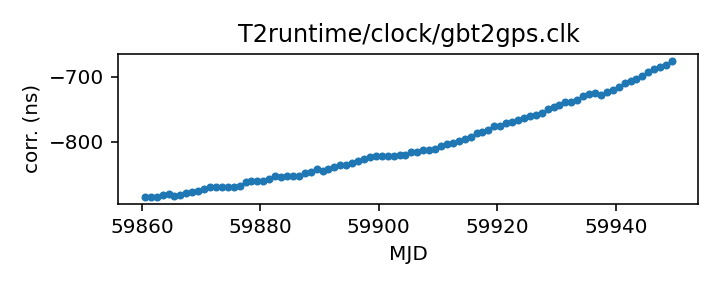
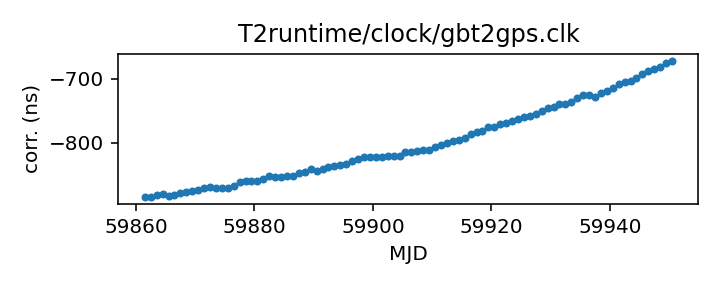
Routine gh-pages update from Github action Sat Jan  7 20:27:29 UTC 2023

diff --git a/status.md b/status.md
@@ -13,17 +13,17 @@ name of each clock file links to a page with more details.
 
 | Name | File | Corrections start | Corrections end | Last check date | Last check result 
 |:--- |:--- | --- | --- | --- |:--- 
-| [GPS to UTC](T2runtime/clock/gps2utc.clk.html) | `T2runtime/clock/gps2utc.clk` | 1993-01-01 MJD 48988.0 | 2022-11-26 MJD 59909.0 | 2023-01-06 | Unchanged 
-| [GPS to UTC (Combined Clock)](T2runtime/clock/gps2utc_cc.clk.html) | `T2runtime/clock/gps2utc_cc.clk` | 1993-01-01 MJD 48988.0 | 2022-11-26 MJD 59909.0 | 2023-01-06 | Unchanged 
-| [GPS to UTC (Corrected)](T2runtime/clock/gps2utc_c0p.clk.html) | `T2runtime/clock/gps2utc_c0p.clk` | 2010-12-29 MJD 55559.0 | 2022-11-26 MJD 59909.0 | 2023-01-06 | Unchanged 
-| [GBT](tempo/clock/time_gbt.dat.html) | `tempo/clock/time_gbt.dat` | 2000-12-31 MJD 51909.5 | 2023-01-05 MJD 59949.5 | 2023-01-06 | Updated 
-| [GBT (TEMPO2 converted from TEMPO)](T2runtime/clock/gbt2gps.clk.html) | `T2runtime/clock/gbt2gps.clk` | 2000-12-31 MJD 51909.5 | 2023-01-05 MJD 59949.5 | 2023-01-06 | Updated 
+| [GPS to UTC](T2runtime/clock/gps2utc.clk.html) | `T2runtime/clock/gps2utc.clk` | 1993-01-01 MJD 48988.0 | 2022-11-26 MJD 59909.0 | 2023-01-07 | Unchanged 
+| [GPS to UTC (Combined Clock)](T2runtime/clock/gps2utc_cc.clk.html) | `T2runtime/clock/gps2utc_cc.clk` | 1993-01-01 MJD 48988.0 | 2022-11-26 MJD 59909.0 | 2023-01-07 | Unchanged 
+| [GPS to UTC (Corrected)](T2runtime/clock/gps2utc_c0p.clk.html) | `T2runtime/clock/gps2utc_c0p.clk` | 2010-12-29 MJD 55559.0 | 2022-11-26 MJD 59909.0 | 2023-01-07 | Unchanged 
+| [GBT](tempo/clock/time_gbt.dat.html) | `tempo/clock/time_gbt.dat` | 2000-12-31 MJD 51909.5 | 2023-01-06 MJD 59950.5 | 2023-01-07 | Updated 
+| [GBT (TEMPO2 converted from TEMPO)](T2runtime/clock/gbt2gps.clk.html) | `T2runtime/clock/gbt2gps.clk` | 2000-12-31 MJD 51909.5 | 2023-01-06 MJD 59950.5 | 2023-01-07 | Updated 
 | [Jodrell Bank](T2runtime/clock/jb2gps.clk.html) | `T2runtime/clock/jb2gps.clk` | 2006-10-13 MJD 54021.4 | 2021-11-03 MJD 59521.0 | 2023-01-04 | Unchanged 
 | [Jodrell Bank Roach](T2runtime/clock/jbroach2jb.clk.html) | `T2runtime/clock/jbroach2jb.clk` | 2006-10-13 MJD 54021.4 | 2018-03-20 MJD 58197.6 | 2023-01-04 | Unchanged 
 | [Jodrell Bank DFB](T2runtime/clock/jbdfb2jb.clk.html) | `T2runtime/clock/jbdfb2jb.clk` | 2006-10-13 MJD 54021.4 | 2017-05-11 MJD 57884.0 | 2023-01-04 | Unchanged 
 | [Meerkat (observatory)](T2runtime/clock/mk2utc_observatory.clk.html) | `T2runtime/clock/mk2utc_observatory.clk` | 2019-01-01 MJD 58484.0 | 2022-12-09 MJD 59923.0 | 2023-01-02 | Unchanged 
-| [Leap seconds](tempo/clock/leap.sec.html) | `tempo/clock/leap.sec` | 1972-07-01 MJD 41499.0 | 2017-01-01 MJD 57754.0 | 2023-01-06 | Unchanged 
-| [UT1 table](tempo/clock/ut1.dat.html) | `tempo/clock/ut1.dat` | 1973-01-02 MJD 41684.0 | 2024-01-13 MJD 60322.0 | 2023-01-06 | Unchanged 
+| [Leap seconds](tempo/clock/leap.sec.html) | `tempo/clock/leap.sec` | 1972-07-01 MJD 41499.0 | 2017-01-01 MJD 57754.0 | 2023-01-07 | Unchanged 
+| [UT1 table](tempo/clock/ut1.dat.html) | `tempo/clock/ut1.dat` | 1973-01-02 MJD 41684.0 | 2024-01-13 MJD 60322.0 | 2023-01-07 | Unchanged 
 
 
 

diff --git a/T2runtime/clock/gbt2gps.clk.md b/T2runtime/clock/gbt2gps.clk.md
@@ -23,14 +23,13 @@ If questions arise about the conversion, contact Anne Archibald
 | Format | tempo2 |
 | Bogus last correction | False |
 | Clock file start | 2000-12-31 MJD 51909.5 |
-| Clock file end | 2023-01-05 MJD 59949.5 |
+| Clock file end | 2023-01-06 MJD 59950.5 |
 | Update interval (days) | 1 |
-| Last update attempt | 2023-01-06 |
+| Last update attempt | 2023-01-07 |
 | Last update result | Updated |
 
 Log entries from the last few update attempts:
 ```
-2022-12-28 20:27:37.336 - Updated
 2022-12-29 20:27:57.091 - Updated
 2022-12-30 20:27:23.116 - Updated
 2022-12-31 20:26:38.920 - Updated
@@ -40,12 +39,13 @@ Log entries from the last few update attempts:
 2023-01-04 20:29:16.060 - Updated
 2023-01-05 20:30:04.348 - Updated
 2023-01-06 20:28:37.177 - Updated
+2023-01-07 20:27:06.058 - Updated
 ```
 [Full log](https://raw.githubusercontent.com/ipta/pulsar-clock-corrections/main/log/T2runtime/clock/gbt2gps.clk.log)
 
 Leading comments from clock file:
 
-    # This file was automatically converted from tempo/clock/time_gbt.dat on 2023-01-06 20:28:37.110
+    # This file was automatically converted from tempo/clock/time_gbt.dat on 2023-01-07 20:27:05.992
 
 
 

diff --git a/tempo/clock/time_gbt.dat.md b/tempo/clock/time_gbt.dat.md
@@ -18,14 +18,13 @@ If questions arise, contact Ryan S. Lynch <rlynch@nrao.edu>.
 | Format | tempo |
 | Bogus last correction | False |
 | Clock file start | 2000-12-31 MJD 51909.5 |
-| Clock file end | 2023-01-05 MJD 59949.5 |
+| Clock file end | 2023-01-06 MJD 59950.5 |
 | Update interval (days) | 1 |
-| Last update attempt | 2023-01-06 |
+| Last update attempt | 2023-01-07 |
 | Last update result | Updated |
 
 Log entries from the last few update attempts:
 ```
-2022-12-28 20:27:37.235 - Updated
 2022-12-29 20:27:57.021 - Updated
 2022-12-30 20:27:23.034 - Updated
 2022-12-31 20:26:38.850 - Updated
@@ -35,6 +34,7 @@ Log entries from the last few update attempts:
 2023-01-04 20:29:15.991 - Updated
 2023-01-05 20:30:04.251 - Updated
 2023-01-06 20:28:37.108 - Updated
+2023-01-07 20:27:05.990 - Updated
 ```
 [Full log](https://raw.githubusercontent.com/ipta/pulsar-clock-corrections/main/log/tempo/clock/time_gbt.dat.log)
 

diff --git a/T2runtime/clock/gps2utc_c0p.clk.md b/T2runtime/clock/gps2utc_c0p.clk.md
@@ -30,12 +30,11 @@ about the BIPM's published corrections, contact <tai@bipm.org>.
 | Clock file start | 2010-12-29 MJD 55559.0 |
 | Clock file end | 2022-11-26 MJD 59909.0 |
 | Update interval (days) | 1 |
-| Last update attempt | 2023-01-06 |
+| Last update attempt | 2023-01-07 |
 | Last update result | Unchanged |
 
 Log entries from the last few update attempts:
 ```
-2022-12-28 20:27:36.776 - Unchanged
 2022-12-29 20:27:56.625 - Unchanged
 2022-12-30 20:27:22.688 - Unchanged
 2022-12-31 20:26:38.462 - Unchanged
@@ -45,6 +44,7 @@ Log entries from the last few update attempts:
 2023-01-04 20:29:15.603 - Unchanged
 2023-01-05 20:30:03.377 - Unchanged
 2023-01-06 20:28:36.682 - Unchanged
+2023-01-07 20:27:05.550 - Unchanged
 ```
 [Full log](https://raw.githubusercontent.com/ipta/pulsar-clock-corrections/main/log/T2runtime/clock/gps2utc_c0p.clk.log)
 

diff --git a/T2runtime/clock/gps2utc_cc.clk.md b/T2runtime/clock/gps2utc_cc.clk.md
@@ -29,12 +29,11 @@ about the BIPM's published corrections, contact <tai@bipm.org>.
 | Clock file start | 1993-01-01 MJD 48988.0 |
 | Clock file end | 2022-11-26 MJD 59909.0 |
 | Update interval (days) | 1 |
-| Last update attempt | 2023-01-06 |
+| Last update attempt | 2023-01-07 |
 | Last update result | Unchanged |
 
 Log entries from the last few update attempts:
 ```
-2022-12-28 20:27:36.764 - Unchanged
 2022-12-29 20:27:56.615 - Unchanged
 2022-12-30 20:27:22.675 - Unchanged
 2022-12-31 20:26:38.451 - Unchanged
@@ -44,6 +43,7 @@ Log entries from the last few update attempts:
 2023-01-04 20:29:15.592 - Unchanged
 2023-01-05 20:30:03.363 - Unchanged
 2023-01-06 20:28:36.672 - Unchanged
+2023-01-07 20:27:05.539 - Unchanged
 ```
 [Full log](https://raw.githubusercontent.com/ipta/pulsar-clock-corrections/main/log/T2runtime/clock/gps2utc_cc.clk.log)
 

diff --git a/T2runtime/clock/gps2utc.clk.md b/T2runtime/clock/gps2utc.clk.md
@@ -32,12 +32,11 @@ about the BIPM's published corrections, contact <tai@bipm.org>.
 | Clock file start | 1993-01-01 MJD 48988.0 |
 | Clock file end | 2022-11-26 MJD 59909.0 |
 | Update interval (days) | 1 |
-| Last update attempt | 2023-01-06 |
+| Last update attempt | 2023-01-07 |
 | Last update result | Unchanged |
 
 Log entries from the last few update attempts:
 ```
-2022-12-28 20:27:36.730 - Unchanged
 2022-12-29 20:27:56.583 - Unchanged
 2022-12-30 20:27:22.639 - Unchanged
 2022-12-31 20:26:38.420 - Unchanged
@@ -47,6 +46,7 @@ Log entries from the last few update attempts:
 2023-01-04 20:29:15.560 - Unchanged
 2023-01-05 20:30:03.321 - Unchanged
 2023-01-06 20:28:36.640 - Unchanged
+2023-01-07 20:27:05.507 - Unchanged
 ```
 [Full log](https://raw.githubusercontent.com/ipta/pulsar-clock-corrections/main/log/T2runtime/clock/gps2utc.clk.log)
 

diff --git a/tempo/clock/leap.sec.md b/tempo/clock/leap.sec.md
@@ -21,12 +21,11 @@ If there are any questions, contact Anne Archibald
 | File start | 1972-07-01 MJD 41499.0 |
 | File end | 2017-01-01 MJD 57754.0 |
 | Update interval (days) | 0 |
-| Last update attempt | 2023-01-06 |
+| Last update attempt | 2023-01-07 |
 | Last update result | Unchanged |
 
 Log entries from the last few update attempts:
 ```
-2022-12-28 20:27:40.442 - Unchanged
 2022-12-29 20:28:04.810 - Unchanged
 2022-12-30 20:27:23.328 - Unchanged
 2022-12-31 20:26:38.955 - Unchanged
@@ -36,5 +35,6 @@ Log entries from the last few update attempts:
 2023-01-04 20:29:18.993 - Unchanged
 2023-01-05 20:30:13.101 - Unchanged
 2023-01-06 20:28:37.391 - Unchanged
+2023-01-07 20:27:06.093 - Unchanged
 ```
 [Full log](https://raw.githubusercontent.com/ipta/pulsar-clock-corrections/main/log/tempo/clock/leap.sec.log)

diff --git a/tempo/clock/ut1.dat.md b/tempo/clock/ut1.dat.md
@@ -30,12 +30,11 @@ If there are any questions, contact Anne Archibald
 | File start | 1973-01-02 MJD 41684.0 |
 | File end | 2024-01-13 MJD 60322.0 |
 | Update interval (days) | 0 |
-| Last update attempt | 2023-01-06 |
+| Last update attempt | 2023-01-07 |
 | Last update result | Unchanged |
 
 Log entries from the last few update attempts:
 ```
-2022-12-28 20:27:49.341 - Unchanged
 2022-12-29 20:28:12.525 - Updated
 2022-12-30 20:27:30.860 - Unchanged
 2022-12-31 20:26:47.137 - Unchanged
@@ -45,5 +44,6 @@ Log entries from the last few update attempts:
 2023-01-04 20:29:27.027 - Unchanged
 2023-01-05 20:30:26.084 - Updated
 2023-01-06 20:28:45.189 - Unchanged
+2023-01-07 20:27:14.115 - Unchanged
 ```
 [Full log](https://raw.githubusercontent.com/ipta/pulsar-clock-corrections/main/log/tempo/clock/ut1.dat.log)
